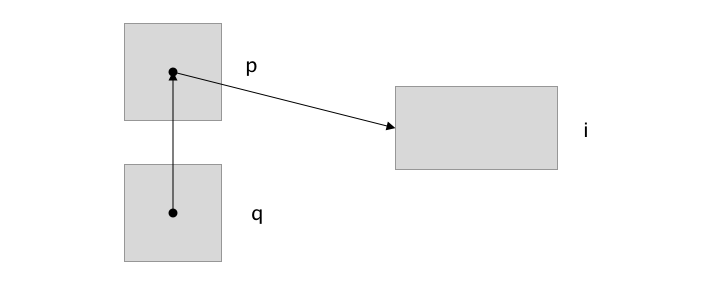
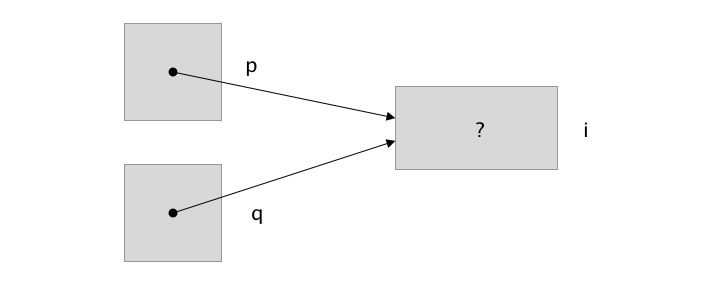
feat: Add progress #3 ‘Question 2, Review 4 solution, CSC 209’

diff --git a/csc209/week_4/review_4_solution.tex b/csc209/week_4/review_4_solution.tex
@@ -146,9 +146,14 @@
             \includegraphics[width=0.6\linewidth]{images/review_4_solution_1.png}
             \end{center}
 
-            \begin{itemize}
-                \item
-            \end{itemize}
+            \bigskip
+
+            \texttt{*p = 1;}
+
+            \begin{center}
+            \includegraphics[width=0.6\linewidth]{images/review_4_solution_2.png}
+            \end{center}
+
         \end{itemize}
     \end{itemize}
 \end{enumerate}
